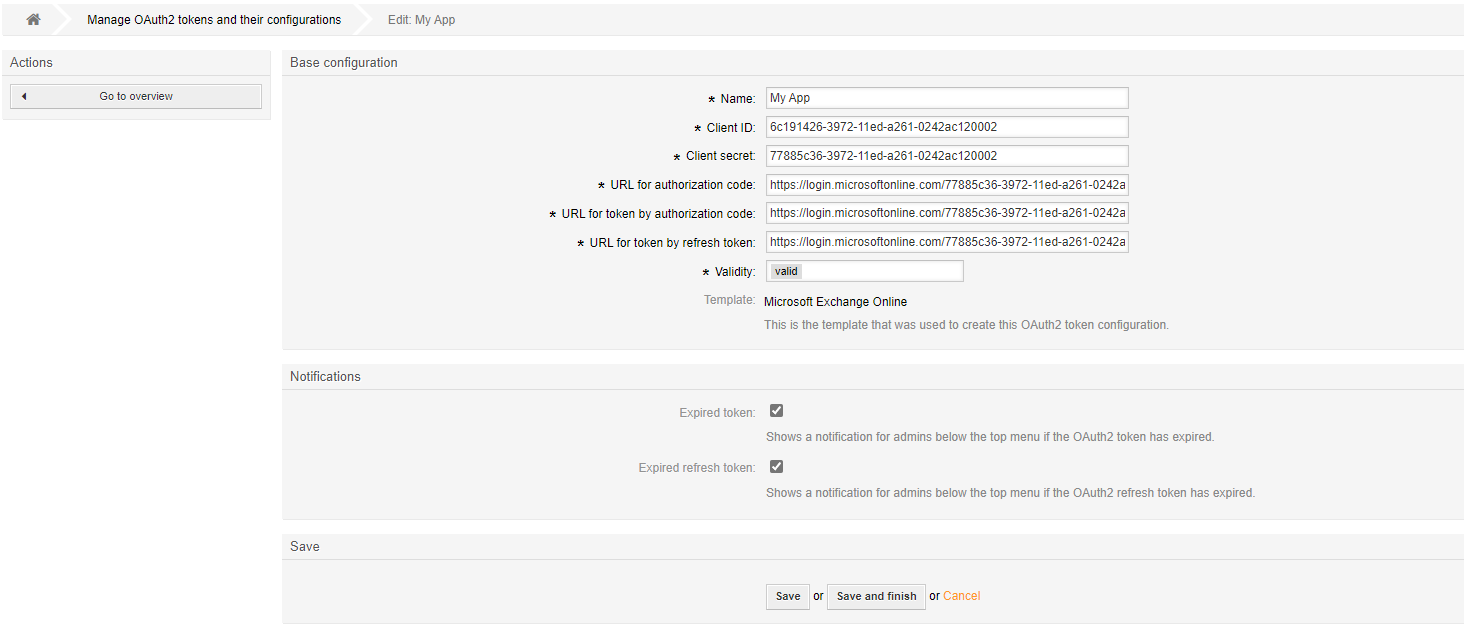
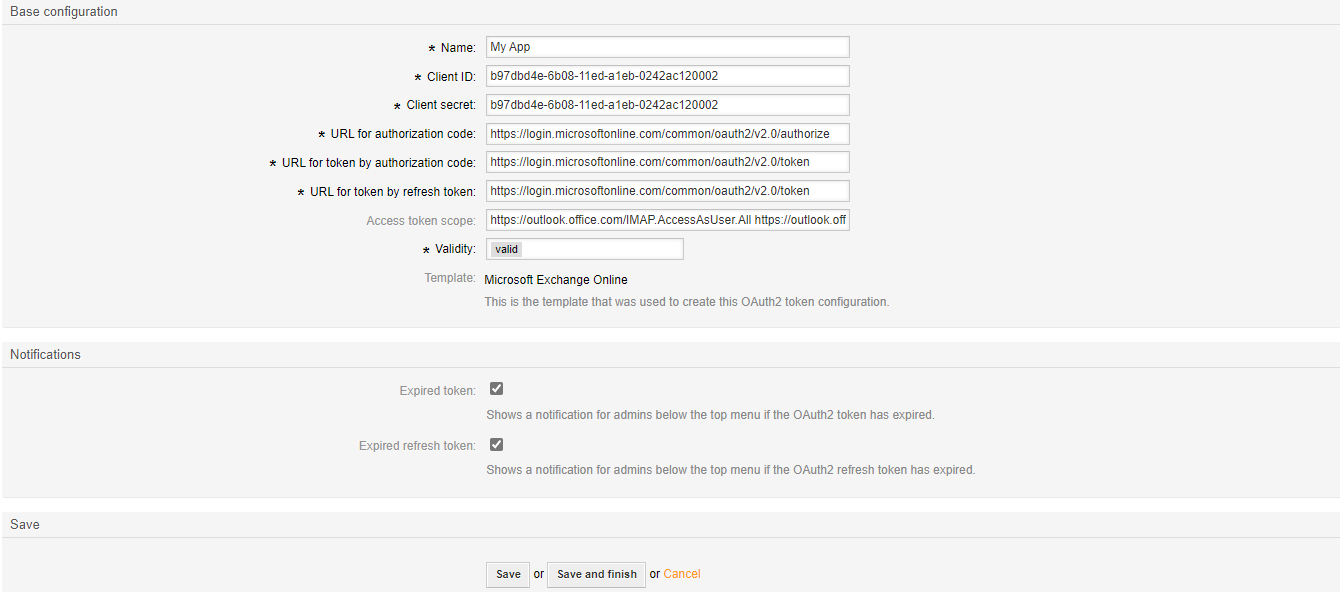
Update regarding the release of Znuny 6.4.4

diff --git a/source/annexes/acl_reference/acl_properties.rst b/source/annexes/acl_reference/acl_properties.rst
@@ -98,7 +98,9 @@ You may match Key/Values using ``Properties Database`` (Back-end) or ``Propertie
 +---------------+-------------------------------+-----------------------------------------------------+--------------------------------------------------------------------------------------------------------------------------------------------------------------------+
 |               | DynamicField_*                | some name                                           |                                                                                                                                                                    |
 +---------------+-------------------------------+-----------------------------------------------------+--------------------------------------------------------------------------------------------------------------------------------------------------------------------+
-|               | ...                           | ...                                                 | Any other ticket attribute.                                                                                                                                        |
+|               | NewOwner                      | login                                               | Prior to Znuny 6.4.4, this would reference the display name.                                                                                                       |
++---------------+-------------------------------+-----------------------------------------------------+--------------------------------------------------------------------------------------------------------------------------------------------------------------------+
+|               | <other Property>              | <other property>                                    | Any other ticket attribute.                                                                                                                                        |
 +---------------+-------------------------------+-----------------------------------------------------+--------------------------------------------------------------------------------------------------------------------------------------------------------------------+
 | Type          | ID                            | some id                                             |                                                                                                                                                                    |
 +---------------+-------------------------------+-----------------------------------------------------+--------------------------------------------------------------------------------------------------------------------------------------------------------------------+

diff --git a/source/releases/installupdate/update/update-6.4.rst b/source/releases/installupdate/update/update-6.4.rst
@@ -43,7 +43,7 @@ Create a backup of the database, the application and all data, especially the at
 New Required Modules
 ********************
 
-Due to the integration of Znuny4OTRS-ExcelStats, please ensure the installation of the following perl modules.
+If you want to use the JSON web token support (JWT) for web servivces please ensure the installation of the following Perl modules:
 
 * Crypt::JWT - optional, only when JSON web token support should be used
 * Crypt::OpenSSL::X509 - optional, only when using JWT with X509 certificates
@@ -58,7 +58,7 @@ You can find the correct URL for your RPM at https://www.znuny.org/releases.
 .. code-block::
 
   # Update to Znuny 6.4 (RHEL 7 / CentOS 7)
-  yum update -y https://download.znuny.org/releases/RPMS/rhel/7/znuny-6.4.3-01.noarch.rpm
+  yum update -y https://download.znuny.org/releases/RPMS/rhel/7/znuny-6.4.4-01.noarch.rpm
 
   # Check for missing modules and add required modules
   /opt/otrs/bin/otrs.CheckModules.pl --all
@@ -79,23 +79,23 @@ The installation from source takes some more steps. If there are more file to re
   tar xfz znuny-latest-6.4.tar.gz
 
   # Set permissions
-  /opt/znuny-6.4.3/bin/otrs.SetPermissions.pl
+  /opt/znuny-6.4.4/bin/otrs.SetPermissions.pl
 
   # Restore Kernel/Config.pm, articles, etc.
-  cp -av /opt/otrs/Kernel/Config.pm /opt/znuny-6.4.3/Kernel/
-  mv /opt/otrs/var/article/* /opt/znuny-6.4.3/var/article/
+  cp -av /opt/otrs/Kernel/Config.pm /opt/znuny-6.4.4/Kernel/
+  mv /opt/otrs/var/article/* /opt/znuny-6.4.4/var/article/
 
   # Restore dotfiles from the homedir to the new directory
-  for f in $(find -L /opt/otrs -maxdepth 1 -type f -name .\* -not -name \*.dist); do cp -av "$f" /opt/znuny-6.4.3/; done
+  for f in $(find -L /opt/otrs -maxdepth 1 -type f -name .\* -not -name \*.dist); do cp -av "$f" /opt/znuny-6.4.4/; done
 
   # Restore modified and custom cron job
-  for f in $(find -L /opt/otrs/var/cron -maxdepth 1 -type f -name .\* -not -name \*.dist); do cp -av "$f" /opt/znuny-6.4.3/var/cron/; done
+  for f in $(find -L /opt/otrs/var/cron -maxdepth 1 -type f -name .\* -not -name \*.dist); do cp -av "$f" /opt/znuny-6.4.4/var/cron/; done
 
   # Delete the old symlink
   rm /opt/otrs
 
   # Create a symlink 
-  ln -s /opt/znuny-6.4.3 /opt/otrs
+  ln -s /opt/znuny-6.4.4 /opt/otrs
 
   # Check for missing modules and add required modules
   /opt/otrs/bin/otrs.CheckModules.pl --all
@@ -156,3 +156,15 @@ Restart everything
 
   # Start your local MTA, mostly Postfix, sometimes Exim or Sendmail
   systemctl start postfix
+
+Post Update Changes
+********************
+
+ACLs
+~~~~
+
+.. versionadded:: 6.4.4
+
+  If you use an ACL which Matches or Limits ``Ticket => NewOwner``, the behavior has changed to use the login and not display name of the user.
+
+

diff --git a/source/releases/6_4_4/features.rst b/source/releases/6_4_4/features.rst
@@ -1,0 +1,25 @@
+New Features
+############
+
+Improvements
+************
+* Added ReadOnly option for CustomerCompany to the Defaults.pm for reference.
+* Added System Configuration options to control more settings of CKEditor (Thanks @SectorNord).
+* Added input field for OAuth2 token scope to admin dialog.
+* Added FilterViews for FilterAppointments function.
+* Improved Migration Script for Generic Interface for renamed invoker.
+* Improved usability* AgentTicketBulk* Set DynamicField_NAME. Used checkbox to true if it is set before or if dynamic field is mandatory.
+* Index S/MIME keys now runs during the migration.
+
+Bugs Fixed
+**********
+
+* Fixed overlapping input list in search dialog.
+* Fixed displayed value for dynamic field type Webservice Text when placeholder <OTRS_TICKET_DynamicField_*_Value> is being used.
+* Fixed sorting of System Configuration entity value types.
+* Fixed SQL condition in Kernel::System::CustomerUser::DB::CustomerSearch.
+* Fixed TransitionValidation CheckValueGet().
+* Fixed Bug in SupportDataCollector plugin for default user.
+
+
+Read about all changes in the `CHANGES.md <https://github.com/znuny/Znuny/blob/rel-6_4_4/CHANGES.md>`_

diff --git a/source/releases/6_4_4/index.rst b/source/releases/6_4_4/index.rst
@@ -1,0 +1,19 @@
+6.4.4
+#####
+
+**Release Information:**
+
++---------------------+-------------------------------------------------------------+
+| Release Date        | 23-NOV-2022                                                 |
++---------------------+-------------------------------------------------------------+
+| Release Type        | Patchlevel                                                  |
++---------------------+-------------------------------------------------------------+
+| Download            | `<https://download.znuny.org/releases/znuny-6.4.4.tar.gz>`_ |
++---------------------+-------------------------------------------------------------+
+| GitHub              | `<https://github.com/znuny/Znuny/tree/rel-6_4_4>`_          |
++---------------------+-------------------------------------------------------------+
+
+.. toctree::
+   :maxdepth: 1
+
+   features

diff --git a/source/admin/authentication/token/index.rst b/source/admin/authentication/token/index.rst
@@ -87,6 +87,14 @@ Client ID
 Client secret
     Your client secret. (The application’s own password.)
 
+.. versionadded:: 6.4.4
+
+    URL *
+        Enter the endpoints required for authorization, token, and token refresh.
+
+    Scope
+        Add the scope for the token.
+
 Validity
     The validity of the setting.
 

diff --git a/source/admin/webservices/requester/index.rst b/source/admin/webservices/requester/index.rst
@@ -58,6 +58,6 @@ OAuth
 .. image:: images/auth_oauth.png
     :alt: OAuth Settings Image
 
-.. versionadded:: v6.4.3
+.. versionadded:: 6.4.3
 
     OAuth2 Token authentication

diff --git a/source/releases/index.rst b/source/releases/index.rst
@@ -18,6 +18,7 @@ Overview
 .. toctree::
    :maxdepth: 2
 
+   6_4_4/index
    6_4_3/index
    6_4_2/index
    6_4_1/index
